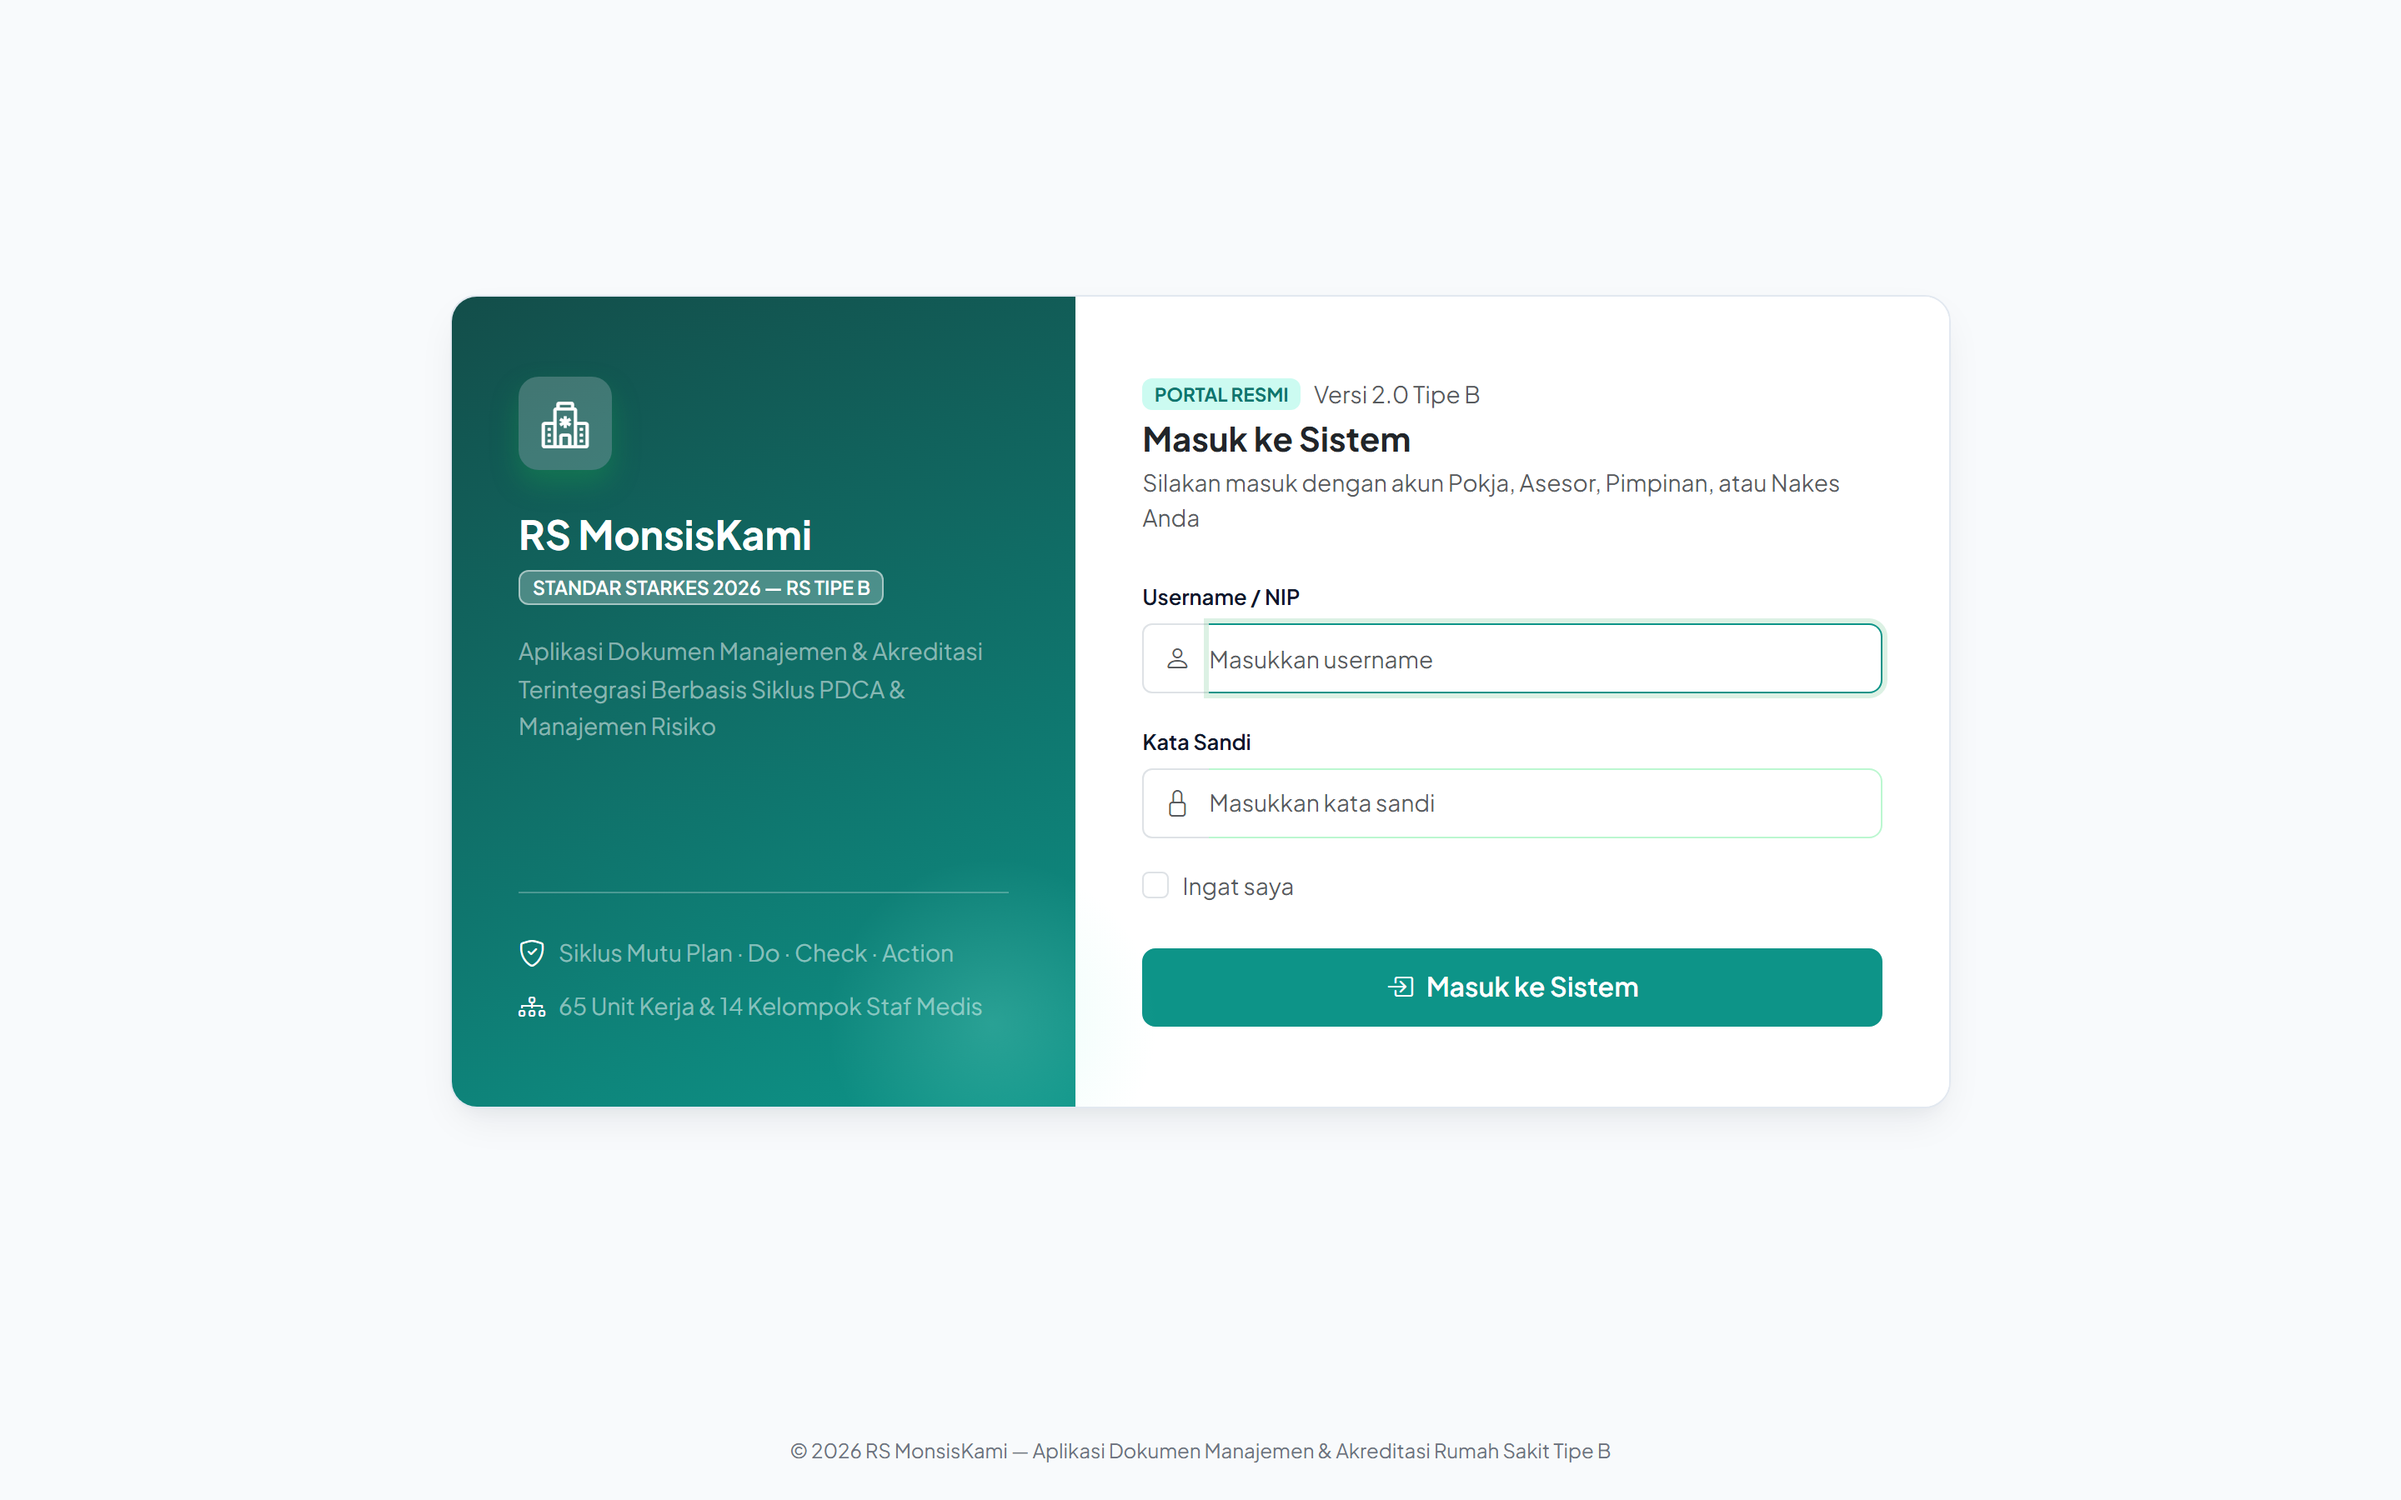
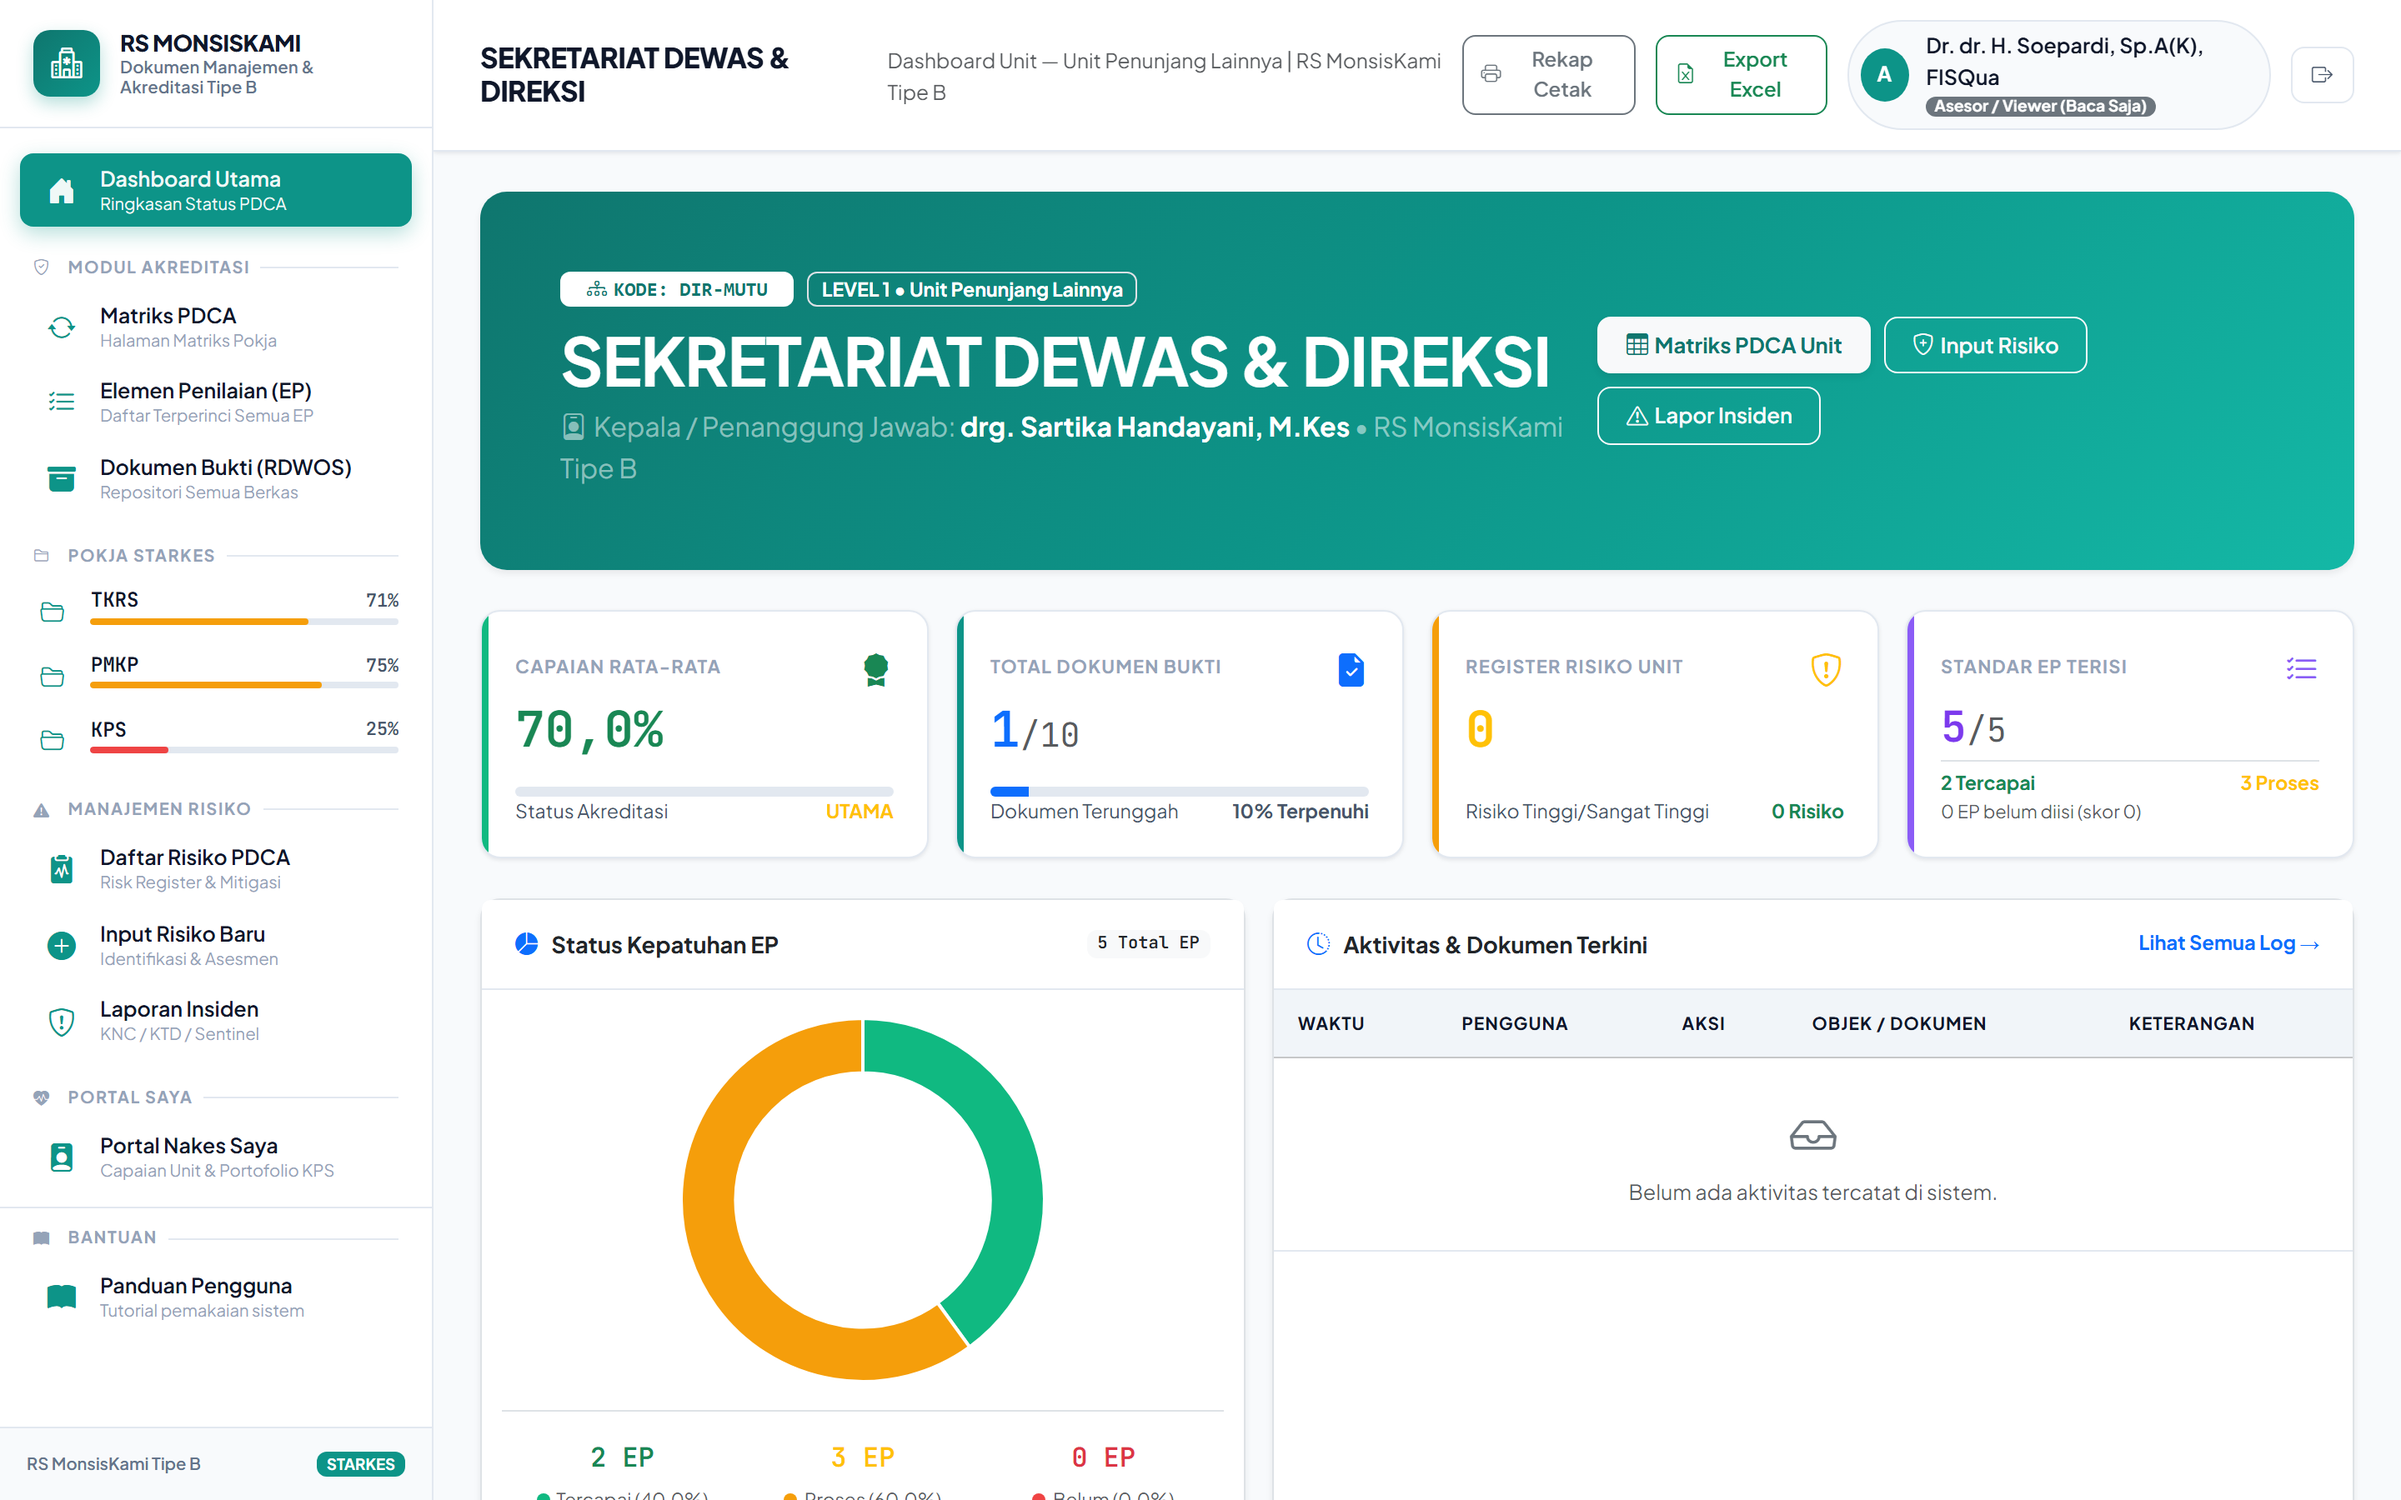
feat: sim-akreditasi dashboard screenshot + read-only demo credentials hint

diff --git a/index.html b/index.html
@@ -693,7 +693,31 @@
       font-size: 0.92rem;
       color: var(--text-muted);
       line-height: 1.6;
-      margin-bottom: 18px;
+      margin-bottom: 12px;
+    }
+
+    .portfolio-demo-hint {
+      background: #e4e7f2;
+      border-radius: 12px;
+      padding: 8px 12px;
+      font-size: 0.8rem;
+      color: var(--text-main);
+      display: flex;
+      align-items: center;
+      gap: 6px;
+      margin-bottom: 16px;
+      border: 1px solid rgba(255, 255, 255, 0.6);
+      box-shadow: inset 1px 1px 2px rgba(180, 185, 205, 0.25);
+    }
+
+    .portfolio-demo-hint code {
+      font-family: var(--font-mono);
+      font-size: 0.78rem;
+      background: #ffffff;
+      padding: 2px 6px;
+      border-radius: 6px;
+      color: var(--primary-dark);
+      font-weight: 600;
     }
 
     .portfolio-meta {
@@ -1119,7 +1143,7 @@
           <div class="portfolio-img-wrap">
             <img src="assets/projects/sim-akreditasi.png" alt="SIM Akreditasi RS - Django Web App" loading="lazy">
             <div class="portfolio-overlay">
-              <a href="https://sim-akreditasi-web-production.up.railway.app" target="_blank" rel="noopener noreferrer" class="portfolio-live-btn">🔗 Live Demo</a>
+              <a href="https://sim-akreditasi-web-production.up.railway.app/accounts/login/" target="_blank" rel="noopener noreferrer" class="portfolio-live-btn">🔗 Live Demo (Read-Only)</a>
               <a href="https://github.com/faishaltsq/sim-akreditasi-django" target="_blank" rel="noopener noreferrer" class="portfolio-repo-btn">⭐ Lihat Repo</a>
             </div>
           </div>
@@ -1132,6 +1156,9 @@
             </div>
             <h3 class="portfolio-title">SIM Akreditasi Rumah Sakit</h3>
             <p class="portfolio-desc">Sistem informasi manajemen akreditasi RS lengkap: matriks PDCA 7-kolom, auto-scoring KARS, manajemen dokumen multi-pokja, 13 role user, dan ekspor PDF resmi.</p>
+            <div class="portfolio-demo-hint">
+              <span>🔑 Demo read-only:</span> <code>asesor.kars</code> / <code>Asesor@1234</code>
+            </div>
             <div class="portfolio-meta">
               <span class="pmeta-item">🗂 Full-stack Web App</span>
               <span class="pmeta-item">⚡ Enterprise Grade</span>
